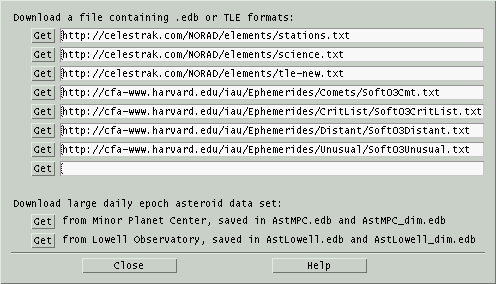
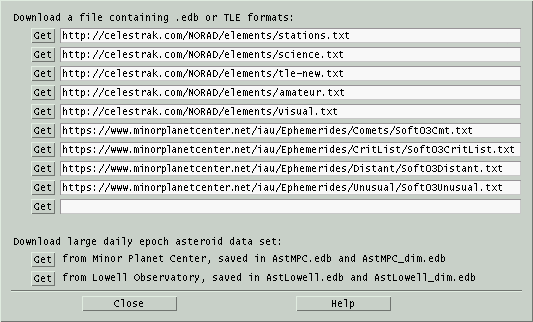
Add “visual.txt” to menu; add dates to downloads

diff --git a/GUI/xephem/help/xephem.html b/GUI/xephem/help/xephem.html
@@ -6506,6 +6506,11 @@ single letter designation from the following set (case <span
 constant curvilinear proper motion)</td>
           </tr>
           <tr>
+            <td style="vertical-align: top; font-weight: bold;"> B<br>
+            </td>
+            <td style="vertical-align: top;">true binary pair with known features</td>
+          </tr>
+          <tr>
             <td style="vertical-align: top; font-weight: bold;"> e<br>
             </td>
             <td style="vertical-align: top;">heliocentric elliptical
@@ -7984,11 +7989,11 @@ used for Earth satellite. The file is saved in the <a
 format if it is not already.<br>
 <br>
 Several particularly useful sites as of this build are already entered.
-The first three are from Dr. TS Kelso's Earth satellite lists at <a
+The first five are from Dr. TS Kelso's Earth satellite lists at <a
  href="http://www.celestrak.com">celestrak.com</a>. The other four are
 the Minor Planet Center's lists of hot comets and unusual asteroids
 specially formatted for <a
- href="http://cfa-www.harvard.edu/iau/Ephemerides/Soft03.html">XEphem</a>.
+ href="https://www.minorplanetcenter.net/iau/Ephemerides/Soft03.html">XEphem</a>.
 Click <span style="font-weight: bold;">Get</span> beside the desired
 catalog to download the file to the Private directory and
 simultaneously load into XEphem memory.<br>
@@ -8006,7 +8011,7 @@ for convenience. One file will contain all asteroids which can ever
 become brighter than magnitude 13, and the other (with a "_dim" suffix)
 contains all the rest. All files are created in the user's Private
 XEphem directory. The real work is performed by two perl scripts,
-mpcorb.pl and astorb.pl, respectively. These may be run independently
+mpcorb2edb.pl and astorb2edb.pl, respectively. These may be run independently
 of XEphem if desired.<br clear="all">
 <br>
 <br>

diff --git a/GUI/xephem/webdbmenu.c b/GUI/xephem/webdbmenu.c
@@ -9,6 +9,7 @@
 #include <stdlib.h>
 #include <string.h>
 #include <unistd.h>
+#include <time.h>
 #include <sys/types.h>
 #include <sys/stat.h>
 
@@ -34,7 +35,7 @@ static void ast_icb (XtPointer client, int *fdp, XtInputId *idp);
 
 static Widget wdbshell_w;	/* the main shell */
 
-#define	WDBNFILES	8	/* number of web files in table */
+#define	WDBNFILES	10	/* number of web files in table */
 #define	WDBINDENT	20	/* table indent, pixels */
 #define	POLLINT		2000	/* ast download status polling interval, ms */
 
@@ -133,7 +134,7 @@ wdb_create()
 	n = 0;
 	XtSetArg (args[n], XmNalignment, XmALIGNMENT_BEGINNING); n++;
 	w = XmCreateLabel (rc_w, "WTL", args, n);
-	set_xmstring (w, XmNlabelString, 
+	set_xmstring (w, XmNlabelString,
 			    "Download a file containing .edb or TLE formats:");
 	XtManageChild (w);
 
@@ -418,6 +419,8 @@ char *url;
 	XE_SSL_FD ssl_fd;
 	int sockfd;
 	int nfound;
+	time_t nowtime;
+	struct tm *datetime;
 
 	memset(&ssl_fd, 0, sizeof(ssl_fd));
 
@@ -478,6 +481,20 @@ char *url;
 	    return;
 	}
 
+	/* An experiment from Dave Kaye: add a header to the data file.
+	   The file will no longer be pristine and match exactly what's
+	   on the site; but users can tell how old their download is.
+	   We'll see if users report problems with the fact that no two
+	   downloads ever yield exactly the same file any more. */
+	nowtime = time(NULL);
+	datetime = localtime(&nowtime);
+	fprintf (fp, "# URL: %s\n", url);
+	fprintf (fp, "# Date: %04d-%02d-%02d\n",
+		 datetime->tm_year + 1900,
+		 datetime->tm_mon + 1,
+		 datetime->tm_mday);
+	fprintf (fp, "#\n");
+
 	/* copy to file, insuring only .edb lines.
 	 */
 	nfound = 0;
@@ -518,4 +535,3 @@ char *url;
 	stopd_down();
 	watch_cursor(0);
 }
-

diff --git a/GUI/xephem/fallbacks.c b/GUI/xephem/fallbacks.c
@@ -747,10 +747,12 @@ String fallbacks[] = {
     "XEphem*WebDB*URL1.value: http://celestrak.com/NORAD/elements/science.txt",
     "XEphem*WebDB*URL2.value: http://celestrak.com/NORAD/elements/tle-new.txt",
     "XEphem*WebDB*URL3.value: http://celestrak.com/NORAD/elements/amateur.txt",
-    "XEphem*WebDB*URL4.value: https://www.minorplanetcenter.org/iau/Ephemerides/Comets/Soft03Cmt.txt",
-    "XEphem*WebDB*URL5.value: https://www.minorplanetcenter.org/iau/Ephemerides/CritList/Soft03CritList.txt",
-    "XEphem*WebDB*URL6.value: https://www.minorplanetcenter.org/iau/Ephemerides/Distant/Soft03Distant.txt",
-    "XEphem*WebDB*URL7.value: https://www.minorplanetcenter.org/iau/Ephemerides/Unusual/Soft03Unusual.txt",
+    "XEphem*WebDB*URL4.value: http://celestrak.com/NORAD/elements/visual.txt",
+    "XEphem*WebDB*URL5.value: https://www.minorplanetcenter.net/iau/Ephemerides/Comets/Soft03Cmt.txt",
+    "XEphem*WebDB*URL6.value: https://www.minorplanetcenter.net/iau/Ephemerides/CritList/Soft03CritList.txt",
+    "XEphem*WebDB*URL7.value: https://www.minorplanetcenter.net/iau/Ephemerides/Distant/Soft03Distant.txt",
+    "XEphem*WebDB*URL8.value: https://www.minorplanetcenter.net/iau/Ephemerides/Unusual/Soft03Unusual.txt",
+    "XEphem*WebDB*URL9.value:",
     "XEphem*WebDB.x: 200",
     "XEphem*WebDB.y: 200",
     "XEphem*WeekStart.Monday.set: False",
